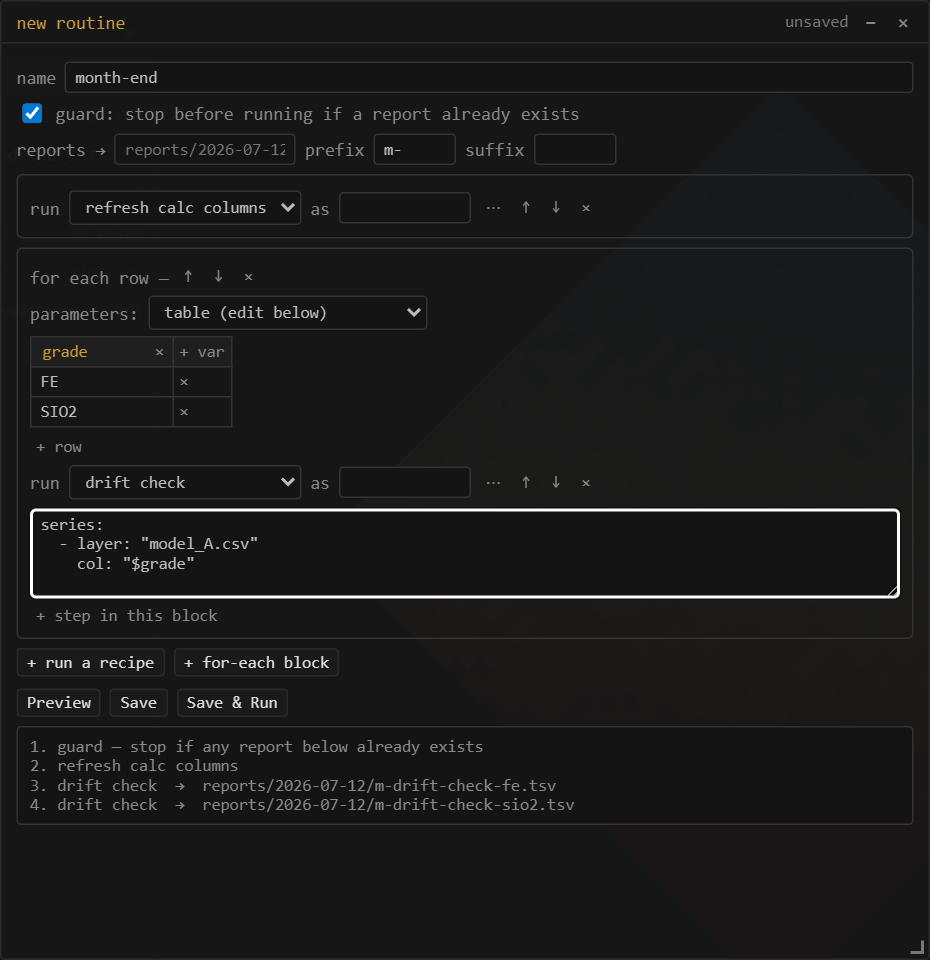
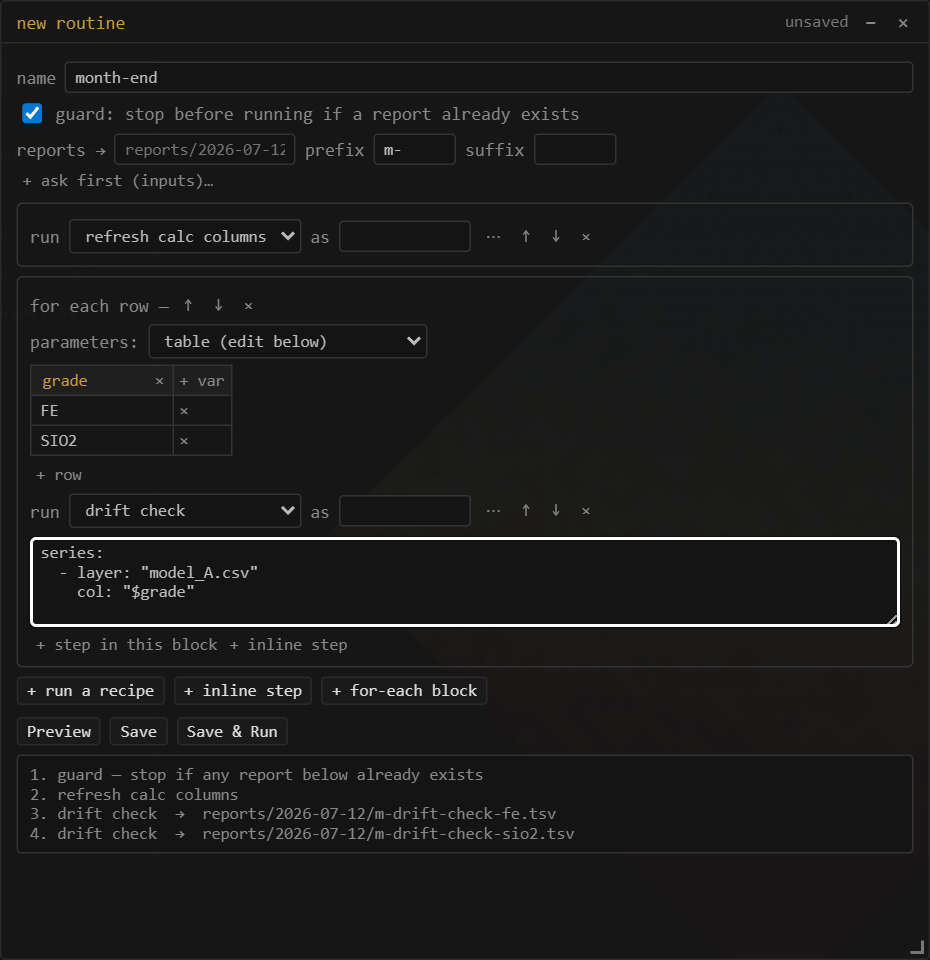
inline routine steps (tool:) + asks-first section in the routine editor; manual updated

Changed region(s): [[0.0312, 0.1875, 0.9667, 0.875], [0.4366, 0.3125, 0.4677, 0.375], [0.1871, 0.4062, 0.2183, 0.4375]]

diff --git a/docs/index.html b/docs/index.html
@@ -423,6 +423,7 @@ params:
   <figcaption>The routine editor. The <b>for each row</b> table is the heart of it — variables are columns, runs are rows. <b>Preview</b> lists every step and every report path before anything runs.</figcaption>
 </figure>
 <p>Steps come in two shapes. A plain step runs one recipe, optionally layering <b>overrides</b> on top (a different cutoff count, a series pointed at another column — the <b>⋯</b> button on a step). A <b>for-each block</b> runs its steps once per <b>row of a parameter table</b>: add a variable for each thing that changes, a row for each run, and write <code>"$grade"</code> in a step wherever the value should land. <b>+ row</b> duplicates the last run so you only edit what differs. There is no scripting here — expansion is plain substitution, so the whole run is knowable before anything executes. That is exactly what <b>Preview</b> shows, and what the optional <b>guard</b> checks: stop before step one if any report it would write already exists.</p>
+<p>A step doesn't have to point at a saved recipe at all. Give it <code>tool:</code> instead (<b>+ inline step</b> in the editor: <code>gt</code>, <code>swath</code>, <code>stats</code>, <code>figure</code>, <code>calccols</code>, or <code>interp</code>) and its whole setup lives right in the step — so a batch can be written from scratch, with nothing recorded first. Name a recipe when you'll reuse the setup elsewhere; inline it when it belongs to this routine alone.</p>
 <p>The editor writes a file like this (block style, strings quoted — hand-edit or write them from scratch if you prefer):</p>
 <pre># micro recipe — routine. Hand-edit freely; series reference layers by NAME.
 name: "month-end"
@@ -469,6 +470,7 @@ params:
     - layer: "$model"
       col: "$grade"</pre>
 <p>Five input types: <code>text</code> (the default), <code>number</code>, <code>choice</code> (with <code>options:</code>), <code>layer</code> (a picker over the loaded layers), and <code>column</code> (a picker over the columns of the layer named by <code>of:</code> — it re-fills live when that layer changes). A marker that is exactly <code>"$name"</code> lands <b>typed</b> — a number input arrives as a number — while markers embedded in longer text become text. Answers are remembered for the session, so the next <b>Run…</b> starts from where you left it.</p>
+<p>Routines ask too: declare <code>inputs:</code> on the routine itself — the editor's <b>+ ask first</b> section adds them without touching YAML — and the answers substitute everywhere in the steps <i>before</i> the parameter tables expand. Keep input names distinct from the tables' variable names; the questions come first, the table fans out after.</p>
 <h3>Mesh export</h3>
 <p><b>Export mesh…</b> (right-click a mesh layer; multi-selections and groups get <b>Export N meshes…</b>) writes <b>OBJ</b>, <b>PLY</b>, <b>MSH</b> (Leapfrog/ARANZ), or <b>LFM</b>. OBJ and LFM are multi-mesh — one named object per layer, with each layer's tint carried as the LFM color — while PLY and MSH merge multiple layers into one mesh. Exports re-read the source geometry, so coordinates leave in <b>full double precision</b> (the PLY writer uses <code>double</code> — at UTM northings, float32 would cost half a meter). A Datamine wireframe pair in, an LFM out: micro is also a mesh-format converter.</p>
 
@@ -653,6 +655,7 @@ params:
 <p style="margin:.15em 0">routines (recipes of recipes) — §18</p>
 <p style="margin:.15em 0">routine editor — §18</p>
 <p style="margin:.15em 0">inputs (ask-me-first recipes) — §18</p>
+<p style="margin:.15em 0">inline steps (routines) — §18</p>
 <p style="margin:.15em 0">scenes — §18</p>
 <p style="margin:.15em 0">Sealed — §20, C</p>
 <p style="margin:.15em 0">sections — §4</p>